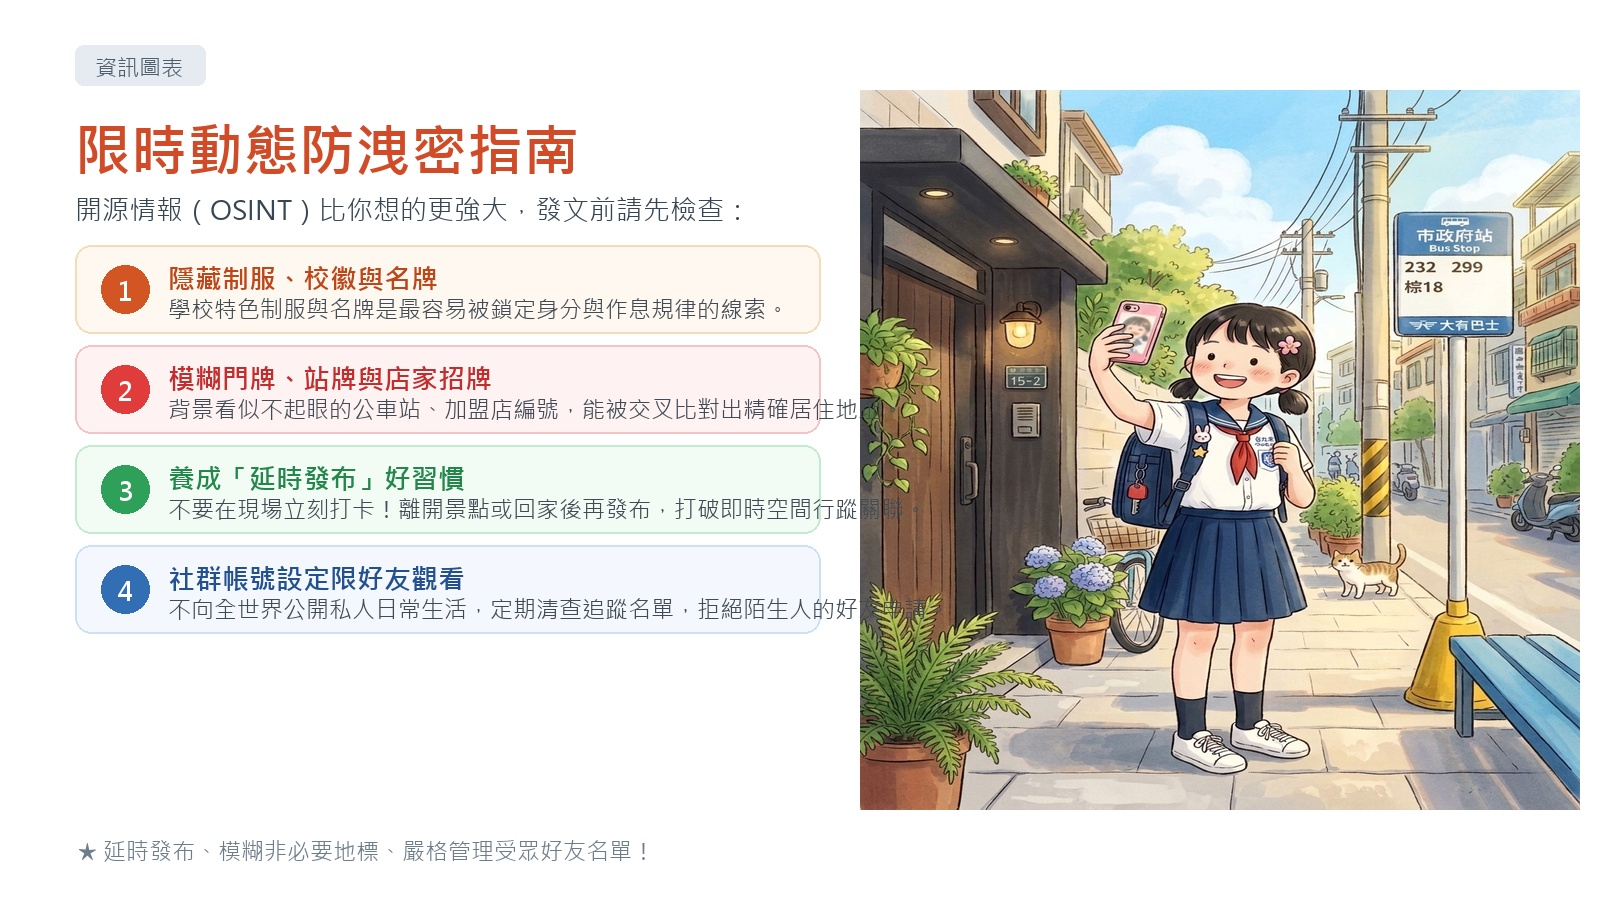
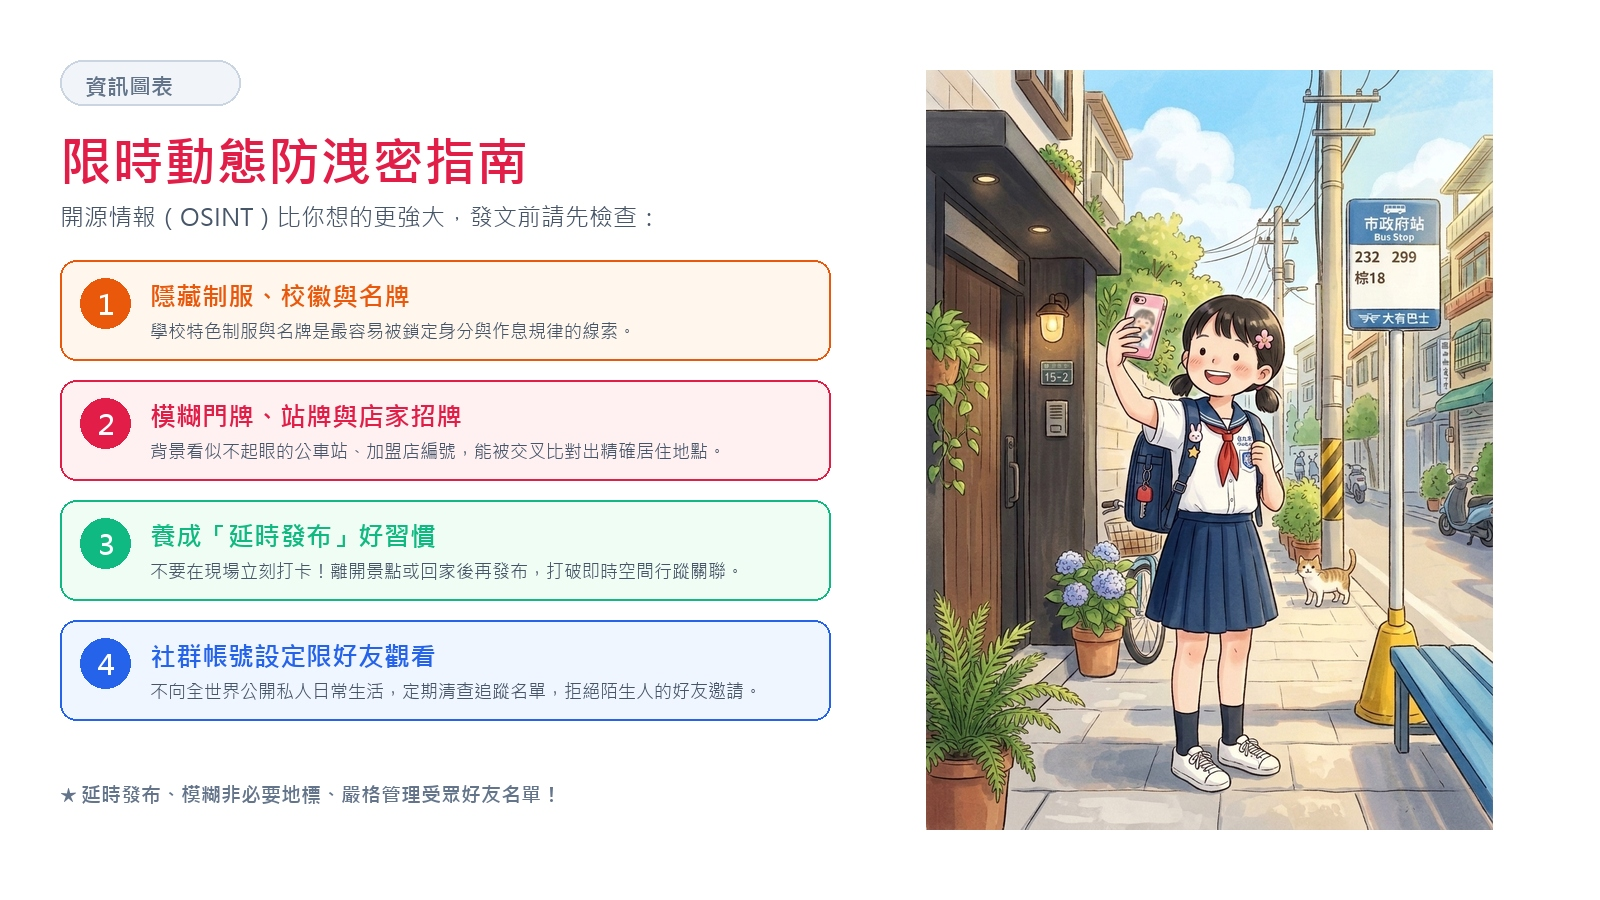
fix(final): 全面上線 7 大案件純白底投影片、完美修復 i8 資訊圖表與記錄宮崎駿風格

diff --git a/units/g5-cyber-safety/index.html b/units/g5-cyber-safety/index.html
@@ -2,6 +2,9 @@
 <html lang="zh-TW">
 <head>
   <meta charset="UTF-8">
+  <meta http-equiv="Cache-Control" content="no-cache, no-store, must-revalidate">
+  <meta http-equiv="Pragma" content="no-cache">
+  <meta http-equiv="Expires" content="0">
   <meta name="viewport" content="width=device-width, initial-scale=1.0">
   <title>資安偵探學院｜教學駕駛艙</title>
   <link rel="stylesheet" href="../../assets/cockpit.css?v=20261023b">
@@ -394,14 +397,14 @@
 
       intro: {
         title: '開場：歡迎來到資安偵探學院',
-        slides: ['assets/cover_detective_v3.jpg', 'assets/intro_tools.jpg']
+        slides: ['assets/final_cover.jpg?v=20261023_vivid', 'assets/intro_tools.jpg']
       },
 
       sections: [
         {
           title: '案件 1　資料變寶藏',
           text: '資料經過整理，變成資訊；資訊找出規律，變成知識；知識拿來做決定，就是智慧。越往上越有價值，也越需要保護。',
-          slides: ['assets/case1_treasure_v4.jpg'],
+          slides: ['assets/final_case1.jpg?v=20261023_vivid'],
           interactive: GAMES.dikw,
           quizzes: [
             {
@@ -423,7 +426,7 @@
         {
           title: '案件 2　三把安全鎖',
           text: '資訊安全要守住三把鎖：<b>機密性</b>（不該看的人看不到）、<b>完整性</b>（資料沒被亂改）、<b>可用性</b>（需要時用得到）。威脅可能來自外部，也可能來自內部。',
-          slides: ['assets/case2_vault_v4.jpg'],
+          slides: ['assets/final_case2.jpg?v=20261023_vivid'],
           interactive: GAMES.cia,
           quizzes: [
             {
@@ -494,7 +497,7 @@
         {
           title: '案件 5　阿嬤接到假電話',
           text: 'AI 可以用幾秒鐘的錄音模仿家人的聲音，也能做出假的臉（深偽）。<b>很急、要錢、要保密</b>就是警訊：先掛斷，用原本的號碼回撥，問全家的通關密語。',
-          slides: ['assets/v5_deepfake_v3.jpg'],
+          slides: ['assets/final_case5.jpg?v=20261023_vivid'],
           interactive: GAMES.voice,
           quizzes: [
             {
@@ -521,7 +524,7 @@
         {
           title: '案件 6　跟 AI 聊天的秘密',
           text: 'AI 聊天機器人本質是<b>「大語言模型（LLM）的機率文字接龍」</b>，不是真實朋友。它可能產生「AI 幻覺」捏造假答案，輸入的對話也可能成為雲端訓練資料。善用它當激發靈感的副駕駛，保持查證，嚴守個資防線！',
-          slides: ['assets/b1_chatbot_v2.jpg?v=20261023f', 'assets/b2_light.jpg'],
+          slides: ['assets/final_case6.jpg?v=20261023_vivid', 'assets/b2_light.jpg'],
           interactive: GAMES.chatLight,
           quizzes: [
             {
@@ -552,7 +555,7 @@
         {
           title: '案件 7　搞笑貼圖風波',
           text: '每個人都有<b>肖像權</b>。用 AI 改別人的照片前，先問三個問題：本人同意了嗎？對方看到會難過嗎？傳出去收得回來嗎？',
-          slides: ['assets/v7_photo_v3.jpg'],
+          slides: ['assets/final_case7.jpg?v=20261023_vivid'],
           interactive: GAMES.debate,
           quizzes: [
             {
@@ -605,13 +608,13 @@
               feedback: '延時發布能打破「時間＋空間」的物理連結，讓潛在犯罪者無法掌握你的即時行蹤。'
             }
           ],
-          infographic: 'assets/i8_story_v2.jpg?v=20261023f',
+          infographic: 'assets/i8_story_v3.jpg?v=20261023_perfect?v=20261023f',
           teacherTips: ['可請學生分組找出自己平常拍照容易入鏡的個資（制服、名牌、車牌、門牌、窗外地標）。']
         },
         {
           title: '案件 9　釣魚網址與 QR code',
           text: '釣魚網站長得跟真的一模一樣，差別藏在網址裡。看網址要看<b>最後面的網域</b>；路邊貼的 QR code 也可能是假的。',
-          slides: ['assets/e1_phish_v3.jpg', 'assets/e2_qr_v3.jpg'],
+          slides: ['assets/final_case9_phish.jpg?v=20261023_vivid', 'assets/e2_qr_v3.jpg?v=20261023_vivid'],
           interactive: GAMES.url,
           quizzes: [
             {

diff --git a/AGENTS.md b/AGENTS.md
@@ -80,3 +80,25 @@
 - 教師密碼寫在 `assets/config.js`，看原始碼就看得到，只用來收起教學提示；教學提示不放機密內容。
 - 評量作答結果不回傳、不儲存。
 - API key、密碼、憑證（含 `.clasprc.json`）絕不寫進 repo；一律放 `.env` 並列入 `.gitignore`。
+
+---
+
+## 🎨 視覺與生圖風格偏好記錄（Kristy 專屬美學指南）
+
+### 🌟 Kristy 偏好風格：宮崎駿／吉卜力手繪水彩生活美學 (Studio Ghibli Aesthetic)
+- **視覺特徵**：
+  - 溫暖細膩的手繪水彩質感（hand-painted watercolor and gouache texture）。
+  - 乾淨細緻的深色手繪墨線線稿（clean organic ink line art / outlines）。
+  - 充滿故事感與生活感的情境光影：蔚藍天空、蓬鬆棉花白雲、溫暖陽光、街道植栽花盆、生活化街景（如公車站牌、校園長廊、紅綠燈）。
+  - 角色神情純真清澈、表情溫暖自然、生動親切（齊瀏海、可愛大眼或純真笑容、小學生制服/雙肩書包）。
+  - 避免生硬的 3D 塑膠反光或過度寫實，保留日系經典動畫手繪的空氣感與人文溫度。
+
+- **Prompt 提示詞標準公式**：
+  ```
+  Studio Ghibli aesthetic, Hayao Miyazaki anime style, hand-painted watercolor and gouache illustration with delicate ink outlines.
+  [角色描述：如 A cheerful 10-year-old Taiwanese school girl with cute bangs and bright expressive eyes],
+  [情境與動作：taking a selfie with smartphone on a sunny street near a bus stop],
+  [背景與氛圍：vibrant blue sky with fluffy cumulus clouds, warm gentle sunlight, green potted plants along the sidewalk, heartwarming cinematic atmosphere, nostalgic aesthetic],
+  clean composition, 16:9 widescreen, masterwork storybook illustration.
+  ```
+
